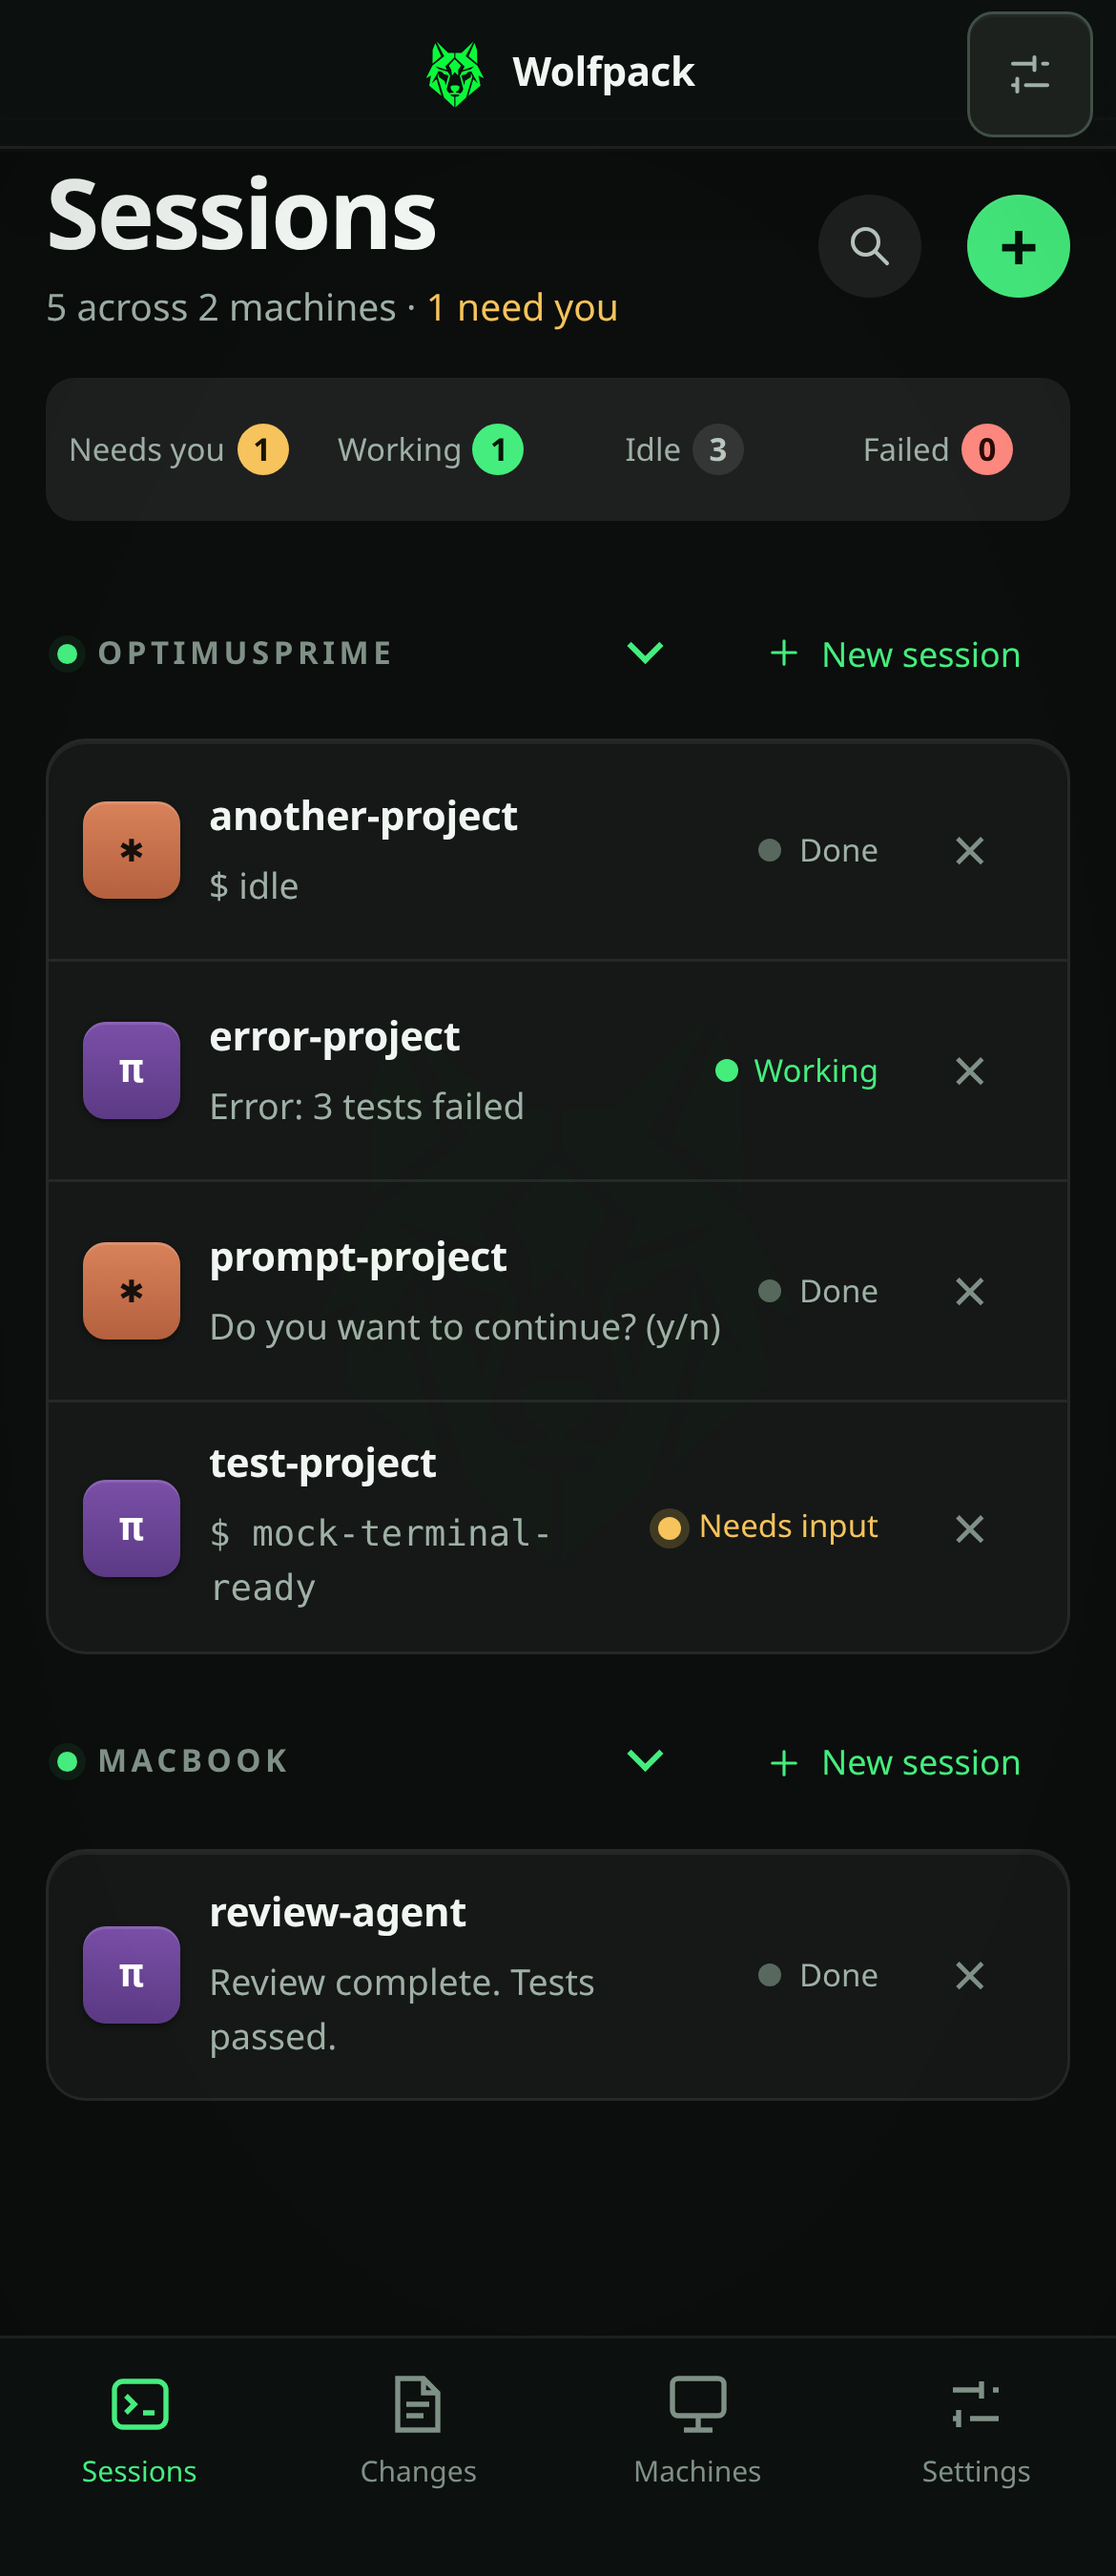
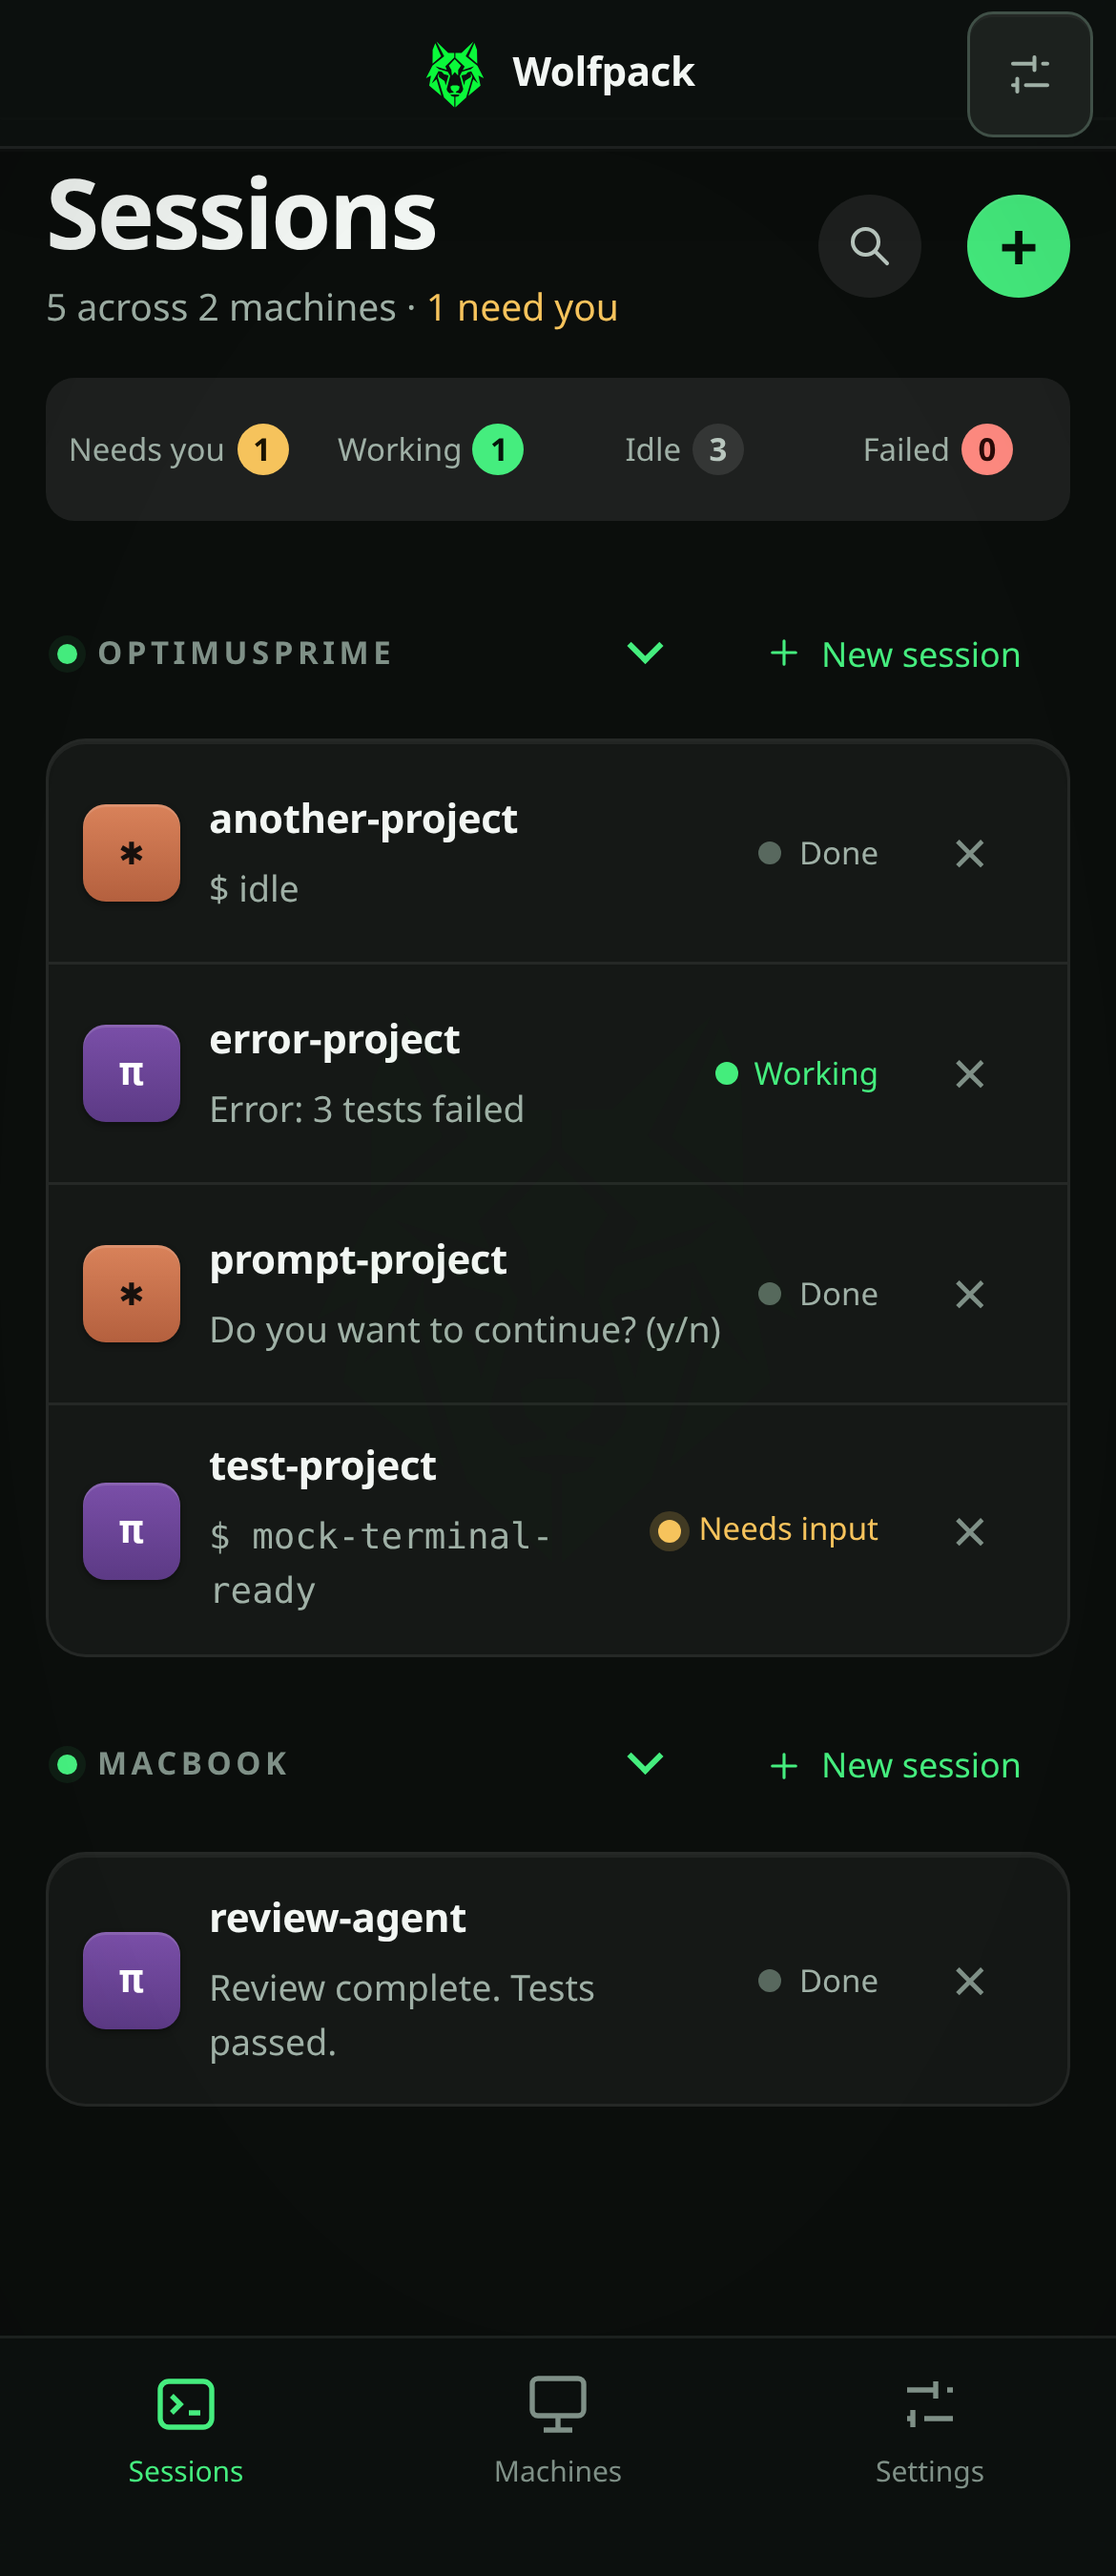
docs(ui): record second review fixes and repeated geometry checks

diff --git a/.plans/ui-redesign-apple.md b/.plans/ui-redesign-apple.md
@@ -1,6 +1,6 @@
 # ui redesign: attention-first dashboard, apple-style skin
 
-status: fix-1 finished on `ui/apple-reskin`; verified production head `03f8f39b`, starting at `04bd999b`. H1–H5, M1–M6, L1–L10 and visible failed-row Close accounted for below, including explicit partial declines. final full suites remain non-green with baseline-reproduced failures. no push; phase 2 excluded.
+status: fix-2 finished on `ui/apple-reskin`; production `d62f06cd`, starting at `07759f4e`. N1/N2/N3/N5/N6 addressed; optional N4 gear retained. N1 passes 15/15 iphone-14 repetitions with exactly equal computed heights, plus the full Chromium run. full suites remain non-green with baseline failures; native iOS clipboard behavior remains unverified. no push/PR/merge, child sessions, phase 2 or protected-surface edits. current handoff is fix-2 below; review-2 superseded fix-1's no-unexplained-regression conclusion.
 
 fix-1 baseline reconciliation: reviewer logs `10-playwright-head.log`, `12-playwright-base-failing-specs.log`, and `13-playwright-head-regressions-rerun.log` inspected under `/tmp/wolfpack-reskin-review/logs/`. six pre-existing failures: iphone-14 session-switch:253; desktop session-switch:656 and ui-polish:19/:35/:71/:106. six branch regressions: iphone-14 accessibility-navigation:39/:52, delegation-sessions:562 on desktop + iphone-14, iphone-14 ux-navigation:1177 and impeccable-refinement:165. baseline Bun inbox failure also reproduced by reviewer. full Chromium final gate may expose additional failures; isolate those on base before assigning ownership. fix logs: `/tmp/wolfpack-reskin-logs/fix-1/`. commit boundary: logical fix commits and final handoff, no push/PR/merge. independent reviewer remains coordinator-owned; no child sessions launched.
 
@@ -265,3 +265,46 @@ commands ran in `/home/almog/dev/wolfpack` against `03f8f39b`; only handoff/imag
 - skip counts include project-specific/native-environment guards; full logs retain their names. no retries concealed failures. build script remains absent; authorized asset-generation substitute used. no WebKit host libraries installed; WebKit/physical iPhone remain unverified.
 - inspected the final 1440×900 and 390×900 captures and copied them manually into `.plans/screenshots/{dashboard,terminal}-{1440,390}.png`. these remain controlled-fixture evidence, not exact mockup parity or physical-device evidence. known structural deviations in the initial handoff remain except corrected failed Close, status/filter/counts, mobile Settings/Changes and sidebar overflow. no built-in Changes/Plan/Tasks content or missing actions were invented; split/fullscreen/widget controls remain in their established positions rather than re-homed.
 - stop here. coordinator may independently review these commits; no merge recommendation beyond this scoped evidence. unrelated `edc-context/reports/` remains untouched.
+
+## fix-2 handoff — second review remediation
+
+- review: `/tmp/wolfpack-reskin-review/report-2.md`; start `07759f4e`; final production `d62f06cd5c84e5975db1df34b8dea7e68a53e9c2`. reference base remains `909d5150`. local commit only; no push/PR/merge. no worker sessions/tasks created; coordinator owns independent review.
+- changed: `public/{app.ts,index.html,styles.css}`, generated `src/public-assets.ts`, `tests/e2e/{delegation-sessions,reskin-review}.e2e.ts`, this handoff and manually refreshed screenshots. protected-scope diff is empty (`14-protected.diff`). unrelated `edc-context/reports/` remains untouched.
+- review-2 correctly found intermittent N1 despite the passing fix-1 full run. this section supersedes that run's broad conclusion; test counts alone were insufficient to establish an identical failing set.
+
+### findings table
+
+| finding | disposition / regression evidence |
+|---|---|
+| N1 — equal collapsed delegation heights | fixed at the separator rule, not by relaxing tolerance or setting arbitrary row heights. pre-fix probe: parent `76px`, solo `77px`; both content boxes `43.75px`, both name lines `19px`, both preview lines `18.75px`. only the later row had a `1px` top separator. the absolute difference occasionally exceeded 1px in transformed bounding boxes. reserve a transparent top border on the first row too. original bounding-box assertion remains; added exact computed-height equality. 15/15 isolated iphone-14 repetitions, zero retries/flakes, every captured pair `77px`/`77px`; also passes all three projects in the final suite. |
+| N2 — two-line sidebar | hide the badge row again and move the delegation toggle into the name row. move its existing zero-top-margin selector with it, avoiding an Open hit-target overlap from the generic 3px toggle margin. regression checks hidden status row, equal parent/solo CSS heights, exactly 2px between name and preview, expansion/collapse and actual Open click into the delegation grid. final desktop screenshot shows name + preview + status dot. drag-cancel hierarchy assertion now targets `.card-name-text`, because `.card-name` intentionally also contains toggle text; order expectations are unchanged. |
+| N3 — unusable Changes tab | hide the tab-bar control when not in a terminal, including initial markup. keep the existing, usable terminal-header Changes affordance. regression checks absence on initial sessions plus opening the existing context from the header. no last-terminal state or route added. |
+| N4 — duplicate mobile Settings | optional change declined: retain the header gear and navigation link to preserve the established keyboard focus-return contract. original accessibility and mobile scrolling cases pass. the duplicate entry remains an explicit visual deviation. |
+| N5 — clipboard gesture | clipboard read now occurs directly in the trusted `touchend` handler or ordinary `click`, never a synthetic click dispatched inside touchstart. start/mousedown guards retain terminal focus; cancelled touchend suppresses compatibility click. regression observes one trusted touchend read, then one trusted mouse click read, exactly two pasted payloads, and retained focus. original delayed-permission target/session check and error dialog preserved. Chromium emulation is not physical iOS/WebKit clipboard permission evidence; device coverage remains open. |
+| N6 — Close confirmation | failed-session confirmation title, message and confirm button now say Close; normal sessions retain Stop. failed-session terminal chrome and error copy use the same verb. regression covers dashboard/sidebar/chrome confirmation and cancel/focus return; backend kill operation and confirmation gate unchanged. |
+
+### verification
+
+logs/artifacts: `/tmp/wolfpack-reskin-logs/fix-2/`. final checks ran in `/home/almog/dev/wolfpack` at `d62f06cd`; only the handoff was dirty during execution. browser/native checks used the same existing `WOLFPACK_BROKER_BIN=/home/almog/dev/wolfpack/broker/target/release/wolfpack-broker`; no native rebuild/install. full Chromium ran **once** after focused corrections. screenshots were copied manually only after testing.
+
+| check | actual result | artifact |
+|---|---|---|
+| new/strengthened regressions before production edits | exit 1; 6 fail, 1 pass, 3 skip (N1/N2/N3/N5/N6 fail as intended) | `01-red.log`, `red-artifacts/` |
+| pre-fix row decomposition | exit 1; exact-height assertion fails, measured border/content evidence retained | `02-geometry-report.json`, `02-row-geometry.json` |
+| focused initial green | exit 1; 6 pass, 3 skip, one new test locator still expected Expand after expansion | `05-green.log` |
+| sidebar corrections | initial Open interception reproduced; final exit 0, 1 pass | `06-sidebar.log`, `08-sidebar-fixed.log` |
+| N1 iphone-14, `-g 'expanded child cards stay compact' --repeat-each=15 --reporter=json` | exit 0; 15 pass / 0 fail / 0 skip / 0 flaky; 25.46s | `10-n1-repeat.json`, `10-repeat-geometries.json`, `10-result.txt` |
+| affected specs, desktop + iphone-14 | exit 1; 121 pass, 49 skip, 6 fail; five known selected-host baseline failures plus stale drag name selector | `11-affected.log` |
+| corrected drag-cancel assertion | exit 0; 1 pass; same case also passes final suite | `12-drag.log` |
+| `bun run scripts/gen-assets.ts` | exit 0; generated assets current | `15-final-assets.log` |
+| `bun run typecheck` | exit 0 | `16-final-types.log` |
+| full Chromium: `bunx playwright test --project=desktop --project=iphone-14 --project=iphone-se` | exit 1; **763 pass, 444 skip, 32 fail**, 1239 cases / 55 specs, 1239s; zero retries | `17-full-chromium.log`, `17-result.txt`, `final-artifacts/` |
+| `bun test` | exit 1; **3599 pass, 8 skip, 1 fail**, 329.95s | `18-bun-test.log`, `18-result.txt` |
+| base iphone-se widget-manager probe, 10 repetitions | exit 1; 7 pass / 3 fail, exact same x=-31 failure | `22-base-widget-repeat.log`, `base-widget-artifacts/` |
+| `git diff --check`; protected diff | exit 0; protected diff empty | `14-protected.diff`, final git evidence |
+
+- all requested regression cases pass in the final run; the full `reskin-review` file has 17 pass and 13 intentional project skips. N1 also passes desktop and iphone-se, not only its 15 iphone-14 repetitions. existing mobile settings focus-return, scrolling, accessory, order and parent Open cases pass.
+- baseline accounting is by test and failure signature, not just aggregate counts: 29 final failures match the prior full base run and have identical extracted signatures (`19-baseline-comparison.json`, `23-shared-failure-signatures.json`). the other three are worker-readiness cleanup (browser-independent, previously reproduced on base), passive-inspection column race (previously reproduced on base), and **iphone-se** widget-manager x=-31. the last variant was re-probed on unchanged base in this round: 3/10 failures, same assertion/value. baseline app/index/styles hashes match `909d5150` (`20-base-source-check.txt`). the first probe's over-anchored grep selected no tests (`21-base-widget-repeat.log`); it is not counted as execution evidence.
+- final Bun failure is the already baseline-reproduced bounded-inbox JSON truncation. no unrelated CLI/native/extension repair attempted. skips and diagnostics are retained unfiltered. these results do not claim a green full repository gate or rule out all possible flakes.
+- current screenshots are manually copied from `final-artifacts/` into `.plans/screenshots/{dashboard,terminal}-{1440,390}.png`; inspected the two-line desktop sidebar and the mobile bar with no dead Changes entry. tests still write only private Playwright output paths. exact mockup parity, physical iPhone and WebKit remain unclaimed; no missing host libraries installed.
+- stopped at the phase-1 boundary. no remaining product decision for this scoped assignment; coordinator may independently verify the commits. accepted earlier declines remain unchanged.
